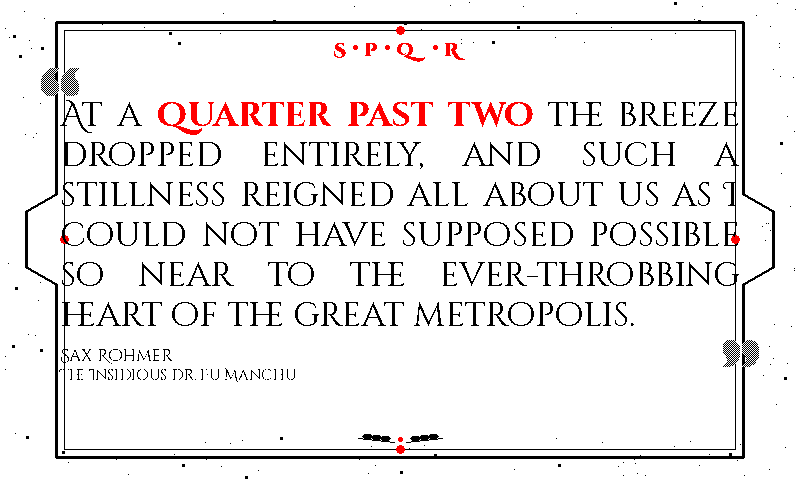
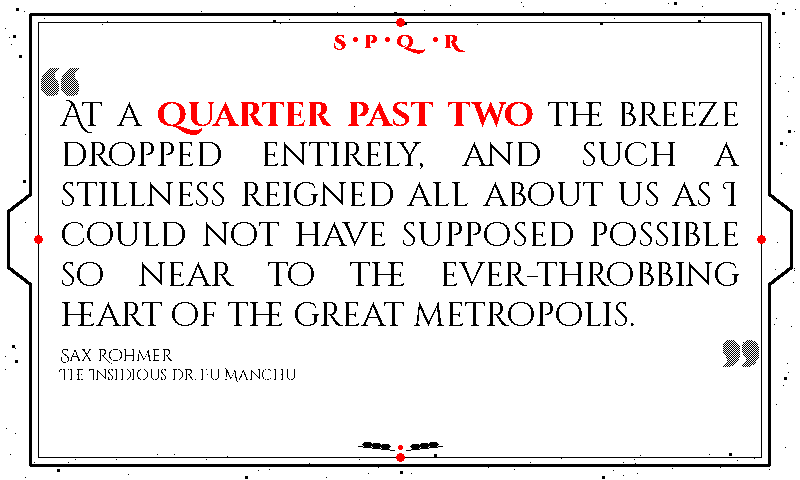
Widen roman tabula frame so the inscription has more breathing room
Frame was tight against the body text, especially on the right where
"POSSIBLE" landed within ~5px of the inner channel rule. Move the
outer rule outward (rect_inset_x 56→30, rect_inset_y 22→14), tighten
the speckle exclusion zone to match (44→26 so stone grain still fills
the page-edge ring up to the new frame), shrink handle_outer_offset
22 so the ansae don't clip the page edge, and add a
_DEBUG_LABEL_RIGHT_INSET=38 entry so the wider frame's right vertical
rule no longer bisects the DEBUG MODE banner. Regenerate the gallery
preview to match.

Changed region(s): [[0.0, 0.0, 1.0, 1.0]]

diff --git a/render_quote.py b/render_quote.py
@@ -2468,12 +2468,16 @@ def _build_roman_stone_grain(
     return points
 
 
-# 800×480 canvas, ring outside an inset-44 central exclusion. ~140 speckles
+# 800×480 canvas, ring outside an inset-26 central exclusion. ~140 speckles
 # is dense enough to read as limestone grain in the margin between the
-# canvas edge and the inner tabula rule but sparse enough that body text
+# canvas edge and the outer tabula rule but sparse enough that body text
 # never has to compete with it (the central exclusion guarantees that).
+# Tuned to sit just inside the tabula's outer rule (rect_inset_x=30,
+# rect_inset_y=14) so the speckles fill the page-edge ring AND the
+# narrow band between the page edge and the frame line, but never bleed
+# into the inscribed face.
 _ROMAN_STONE_GRAIN = _build_roman_stone_grain(
-    DEFAULT_WIDTH, DEFAULT_HEIGHT, density=140, seed=0x5C1B, exclude_inset=44
+    DEFAULT_WIDTH, DEFAULT_HEIGHT, density=140, seed=0x5C1B, exclude_inset=26
 )
 
 
@@ -2553,8 +2557,13 @@ def draw_roman_border(image: Image.Image, colors: dict) -> None:
     # see e.g. the Arch of Titus inscription frame. Handle height is
     # roughly half the central rectangle's height so the silhouette
     # reads as "tablet with ears" rather than "tablet with pegs".
-    rect_inset_x = 56
-    rect_inset_y = 22
+    # Frame insets are tight against the page edges so the inscribed
+    # face inside the tabula has the maximum amount of breathing room
+    # for body text. The tabula's ansae extend OUTWARD from these
+    # insets, so leave room on the left/right edges for the
+    # ``handle_outer_offset`` flange.
+    rect_inset_x = 30
+    rect_inset_y = 14
     rect_left = rect_inset_x
     rect_right = width - 1 - rect_inset_x
     rect_top = rect_inset_y
@@ -2565,7 +2574,7 @@ def draw_roman_border(image: Image.Image, colors: dict) -> None:
     # reads as "Roman tablet" is roughly 70:40 (inner:outer) regardless
     # of canvas size; scaling by ``rect_bot - rect_top`` would give
     # absurd 218px-tall handles on an 800×480 panel.
-    handle_outer_offset = 30       # how far the ansa extends past the rectangle
+    handle_outer_offset = 22       # how far the ansa extends past the rectangle
     handle_inner_height = 90       # vertical span where the ansa meets the rectangle
     handle_outer_height = 56       # vertical span at the ansa's outer edge
     rect_mid = (rect_top + rect_bot) // 2
@@ -2781,6 +2790,12 @@ _DEBUG_LABEL_RIGHT_INSET = {
                         # width-13, wing tip at width-38) plus breathing gap.
                         # The decorative banner band starts at y=34 so it's
                         # already below the label's y=14-29 band.
+    "roman": 38,        # past the tabula's right vertical rule (frame at
+                        # rect_inset_x=30, 3px width → outer edge at
+                        # x=width-30, rule painted from x=width-33 to
+                        # x=width-31) plus breathing gap. The SPQR
+                        # cartouche is centred horizontally so it never
+                        # reaches the label's x range.
 }
 
 
